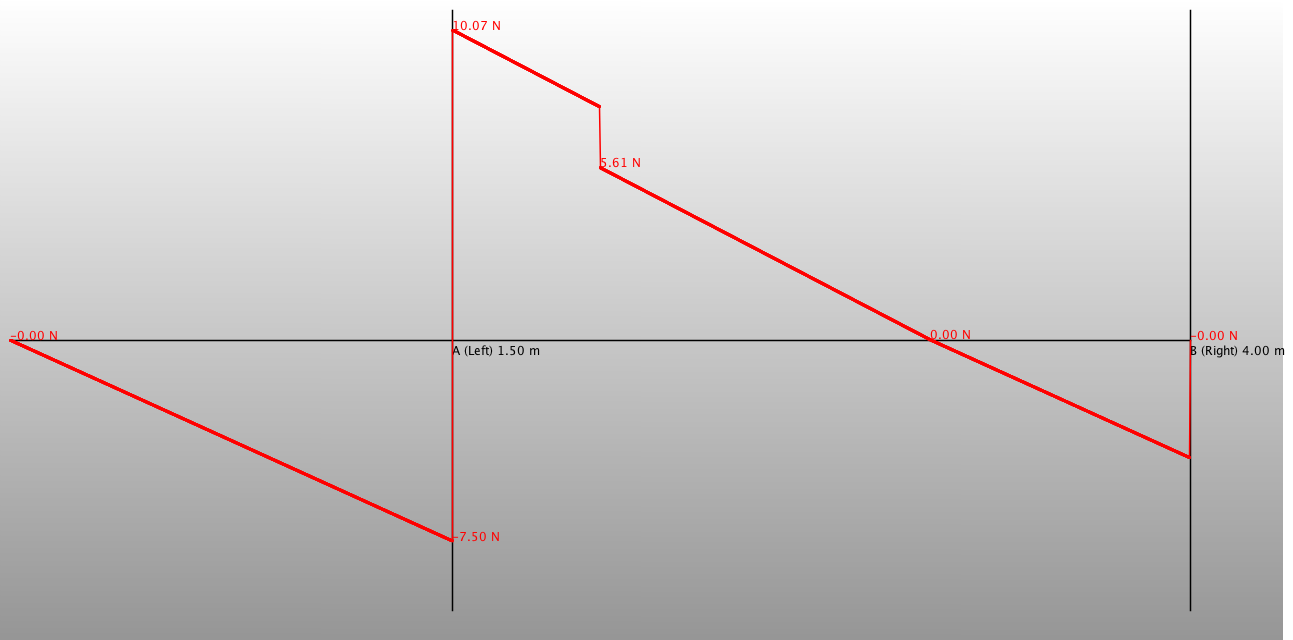
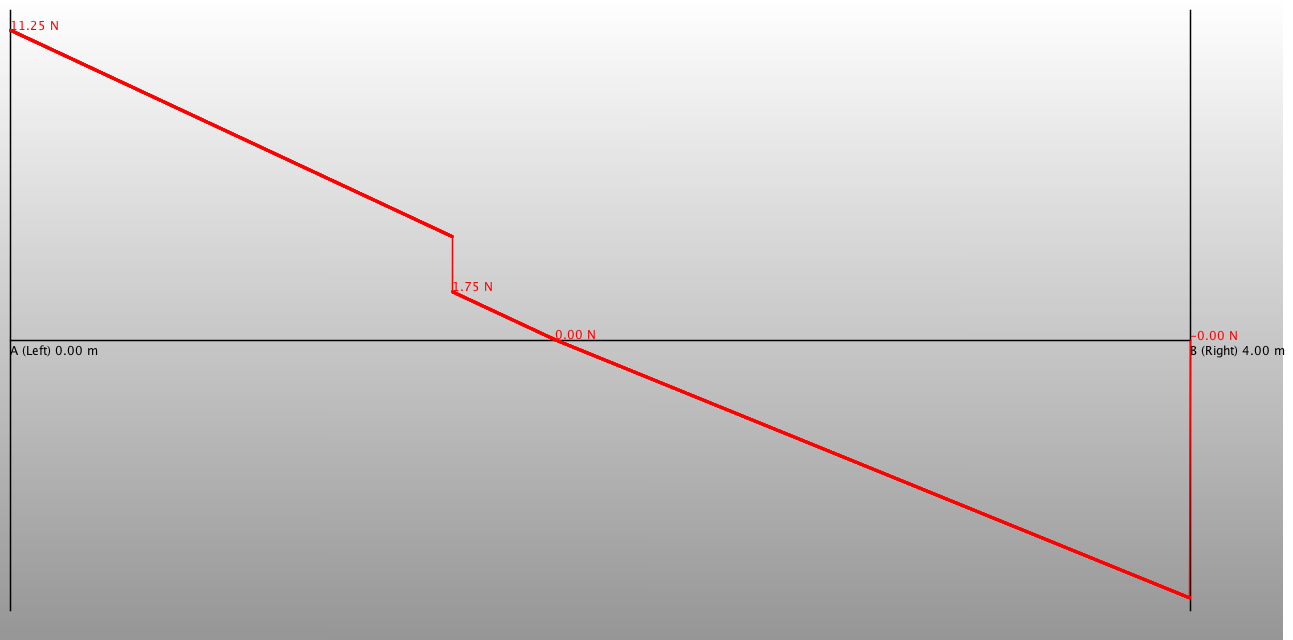
Improved shearing force algorythms and rechecked solutions found. Works perfectly so far

diff --git a/src/MainBeamCalculator.java b/src/MainBeamCalculator.java
@@ -19,13 +19,14 @@ public class MainBeamCalculator {
 
 		// Create a new beam
 		Beam myBeam = new Beam(4);
-		myBeam.addBearing(new Support("A (Left)", 1.5, Support.ROLLER_SUPPORT));
+		myBeam.addBearing(new Support("A (Left)", 0, Support.ROLLER_SUPPORT));
 		myBeam.addBearing(new Support("B (Right)", 4, Support.PIN_SUPPORT));
 		
 		// Add load
 		// NAME/ Force/ Distance/ Angle /Length
-		myBeam.addLoad(new Load("F1", -2.0, 2, 10, 0));
+		myBeam.addLoad(new Load("F1", -2.0, 1.5, 0, 0));
 		myBeam.addLoad(new Load("q1", -5, 0, 0,4));
+
 
 		// Show beam info
 		System.out.println("Beam:");
@@ -53,9 +54,10 @@ public class MainBeamCalculator {
 		// Solve
 		BeamResult result = BeamSolver.getResults(myBeam, "2f");
 
+		//
 		// Show results or error's
 		//
-		// First order of business: One shlould check for errors first.
+		// First order of business: One shlould check for errors.
 		if (result.getErrorCount() == 0) {
 			System.out.println("");
 			System.out.println("RESULT:");

diff --git a/src/org/berthold/beamCalc/StressResultant.java b/src/org/berthold/beamCalc/StressResultant.java
@@ -77,7 +77,7 @@ public class StressResultant {
 	/**
 	 * Adds an arbitrary value to this stress resltant value.
 	 * 
-	 * @param value Sheraing force to be added to this value.
+	 * @param value Shearing force to be added to this value.
 	 */
 	public void addValue(double value) {
 		this.stressResultantValue = this.stressResultantValue + value;
@@ -102,7 +102,6 @@ public class StressResultant {
 	}
 
 	/**
-	 * 
 	 * Repleaces the current value of this stress resultant with the new one.
 	 * 
 	 * @param shearingForceValue New value for this stress resultant.

diff --git a/src/org/berthold/beamCalc/Load.java b/src/org/berthold/beamCalc/Load.java
@@ -26,7 +26,7 @@ package org.berthold.beamCalc;
  * at 0 deg.
  * <p>
  *
- * @author Berthold
+ * @author Berthold<p>
  * 
  *         ToDo: There is no constructor included yet, which allows to add a
  *         single load. If one want's to do so, the length of the line load and

diff --git a/src/org/berthold/beamCalc/StressResultantTable.java b/src/org/berthold/beamCalc/StressResultantTable.java
@@ -109,7 +109,8 @@ public class StressResultantTable {
 
 				q.setName(l.getName());
 				q.setDiscontiunuity(true);
-				q.setShearingForce(force_N);
+				q.addValue(force_N);
+				//q.setShearingForce(force_N);
 				q.setX_m(x_m);
 			}
 			n++;
